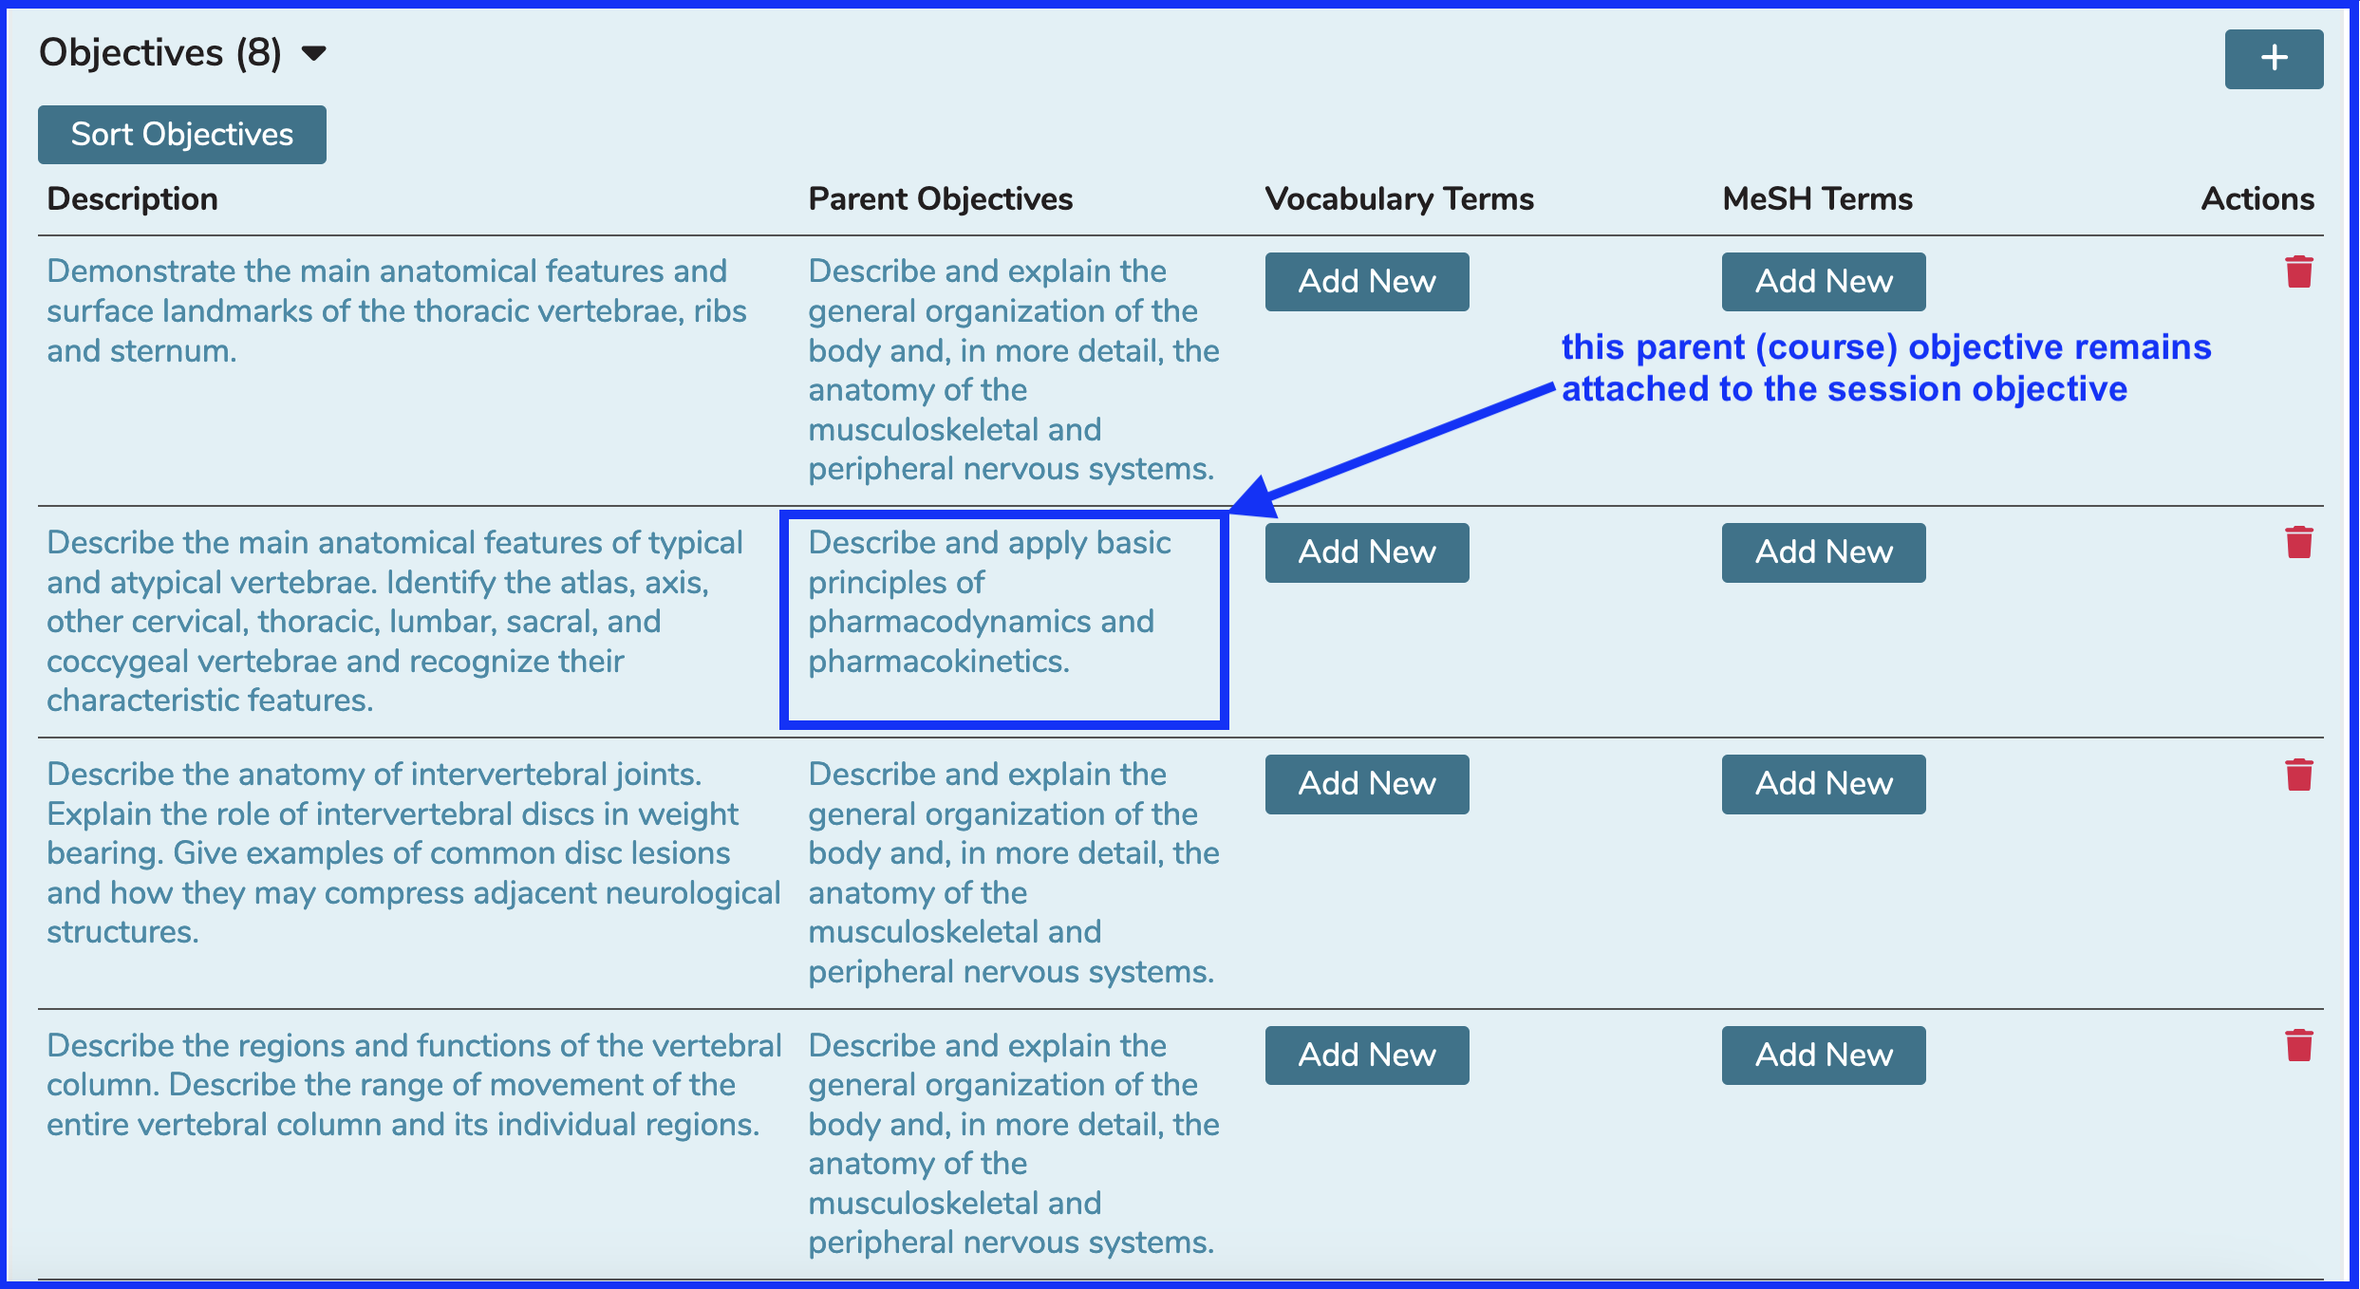
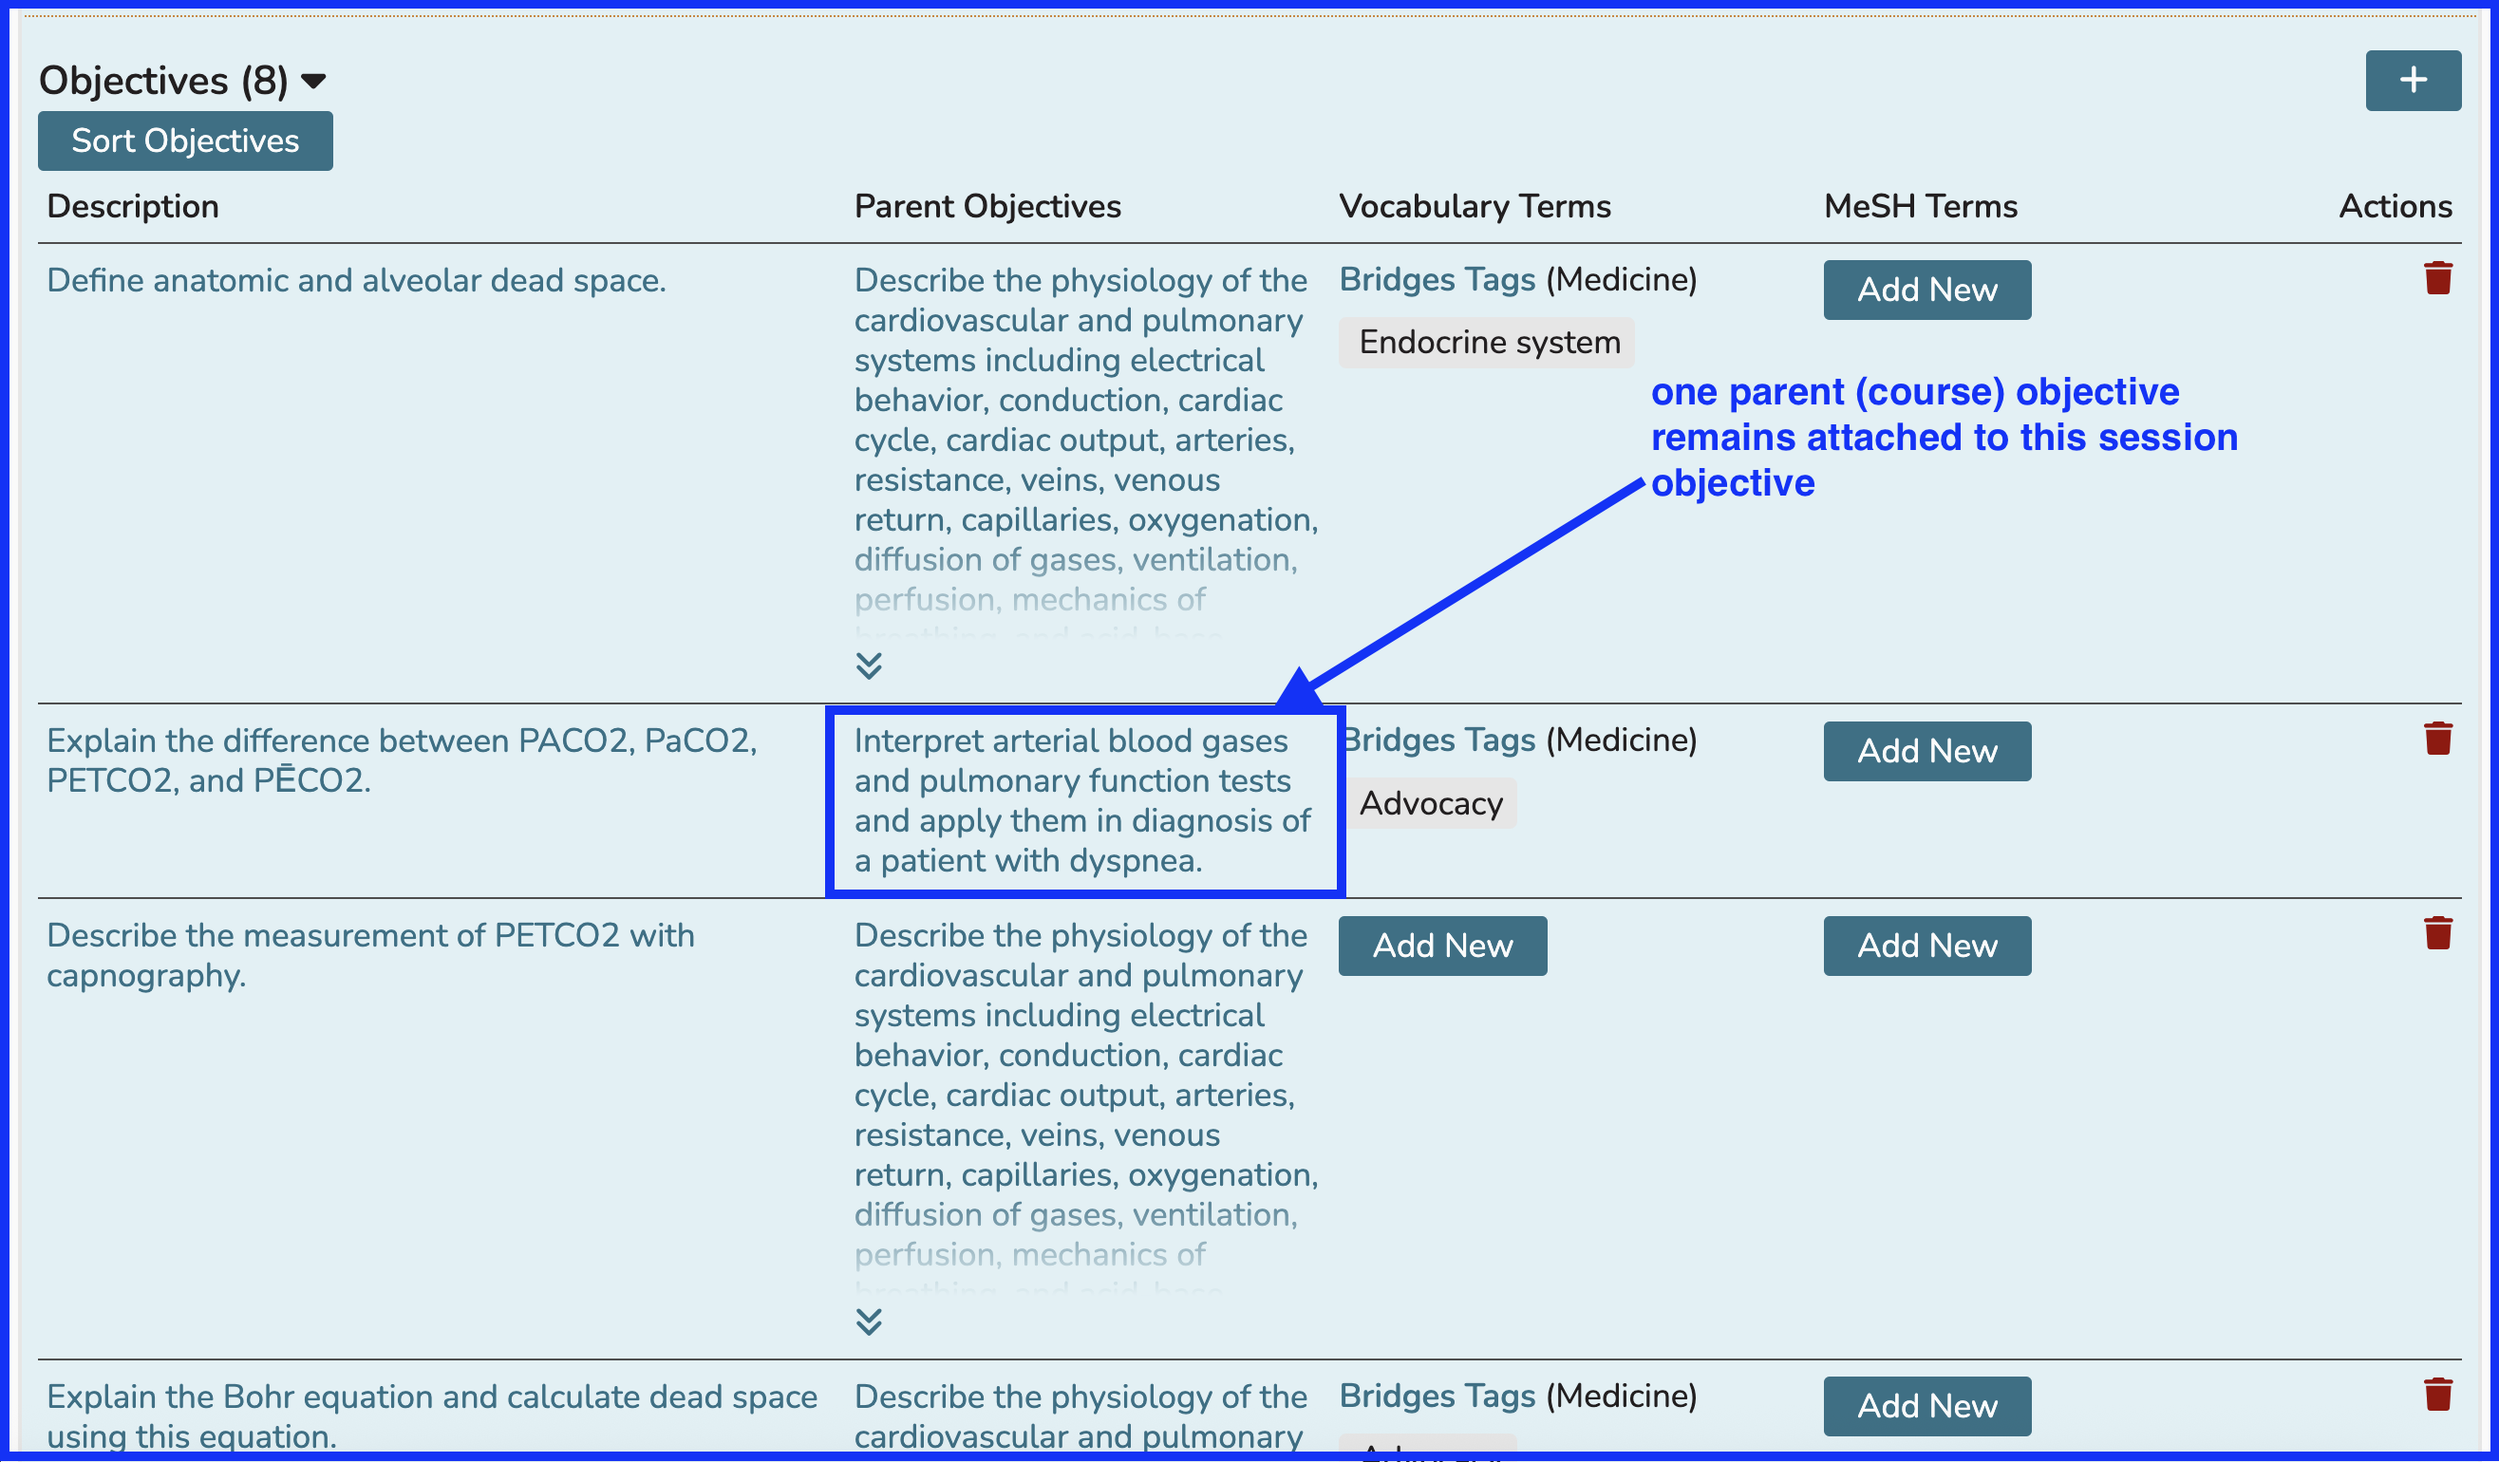
image replaced - slight text update too

Changed region(s): [[0.0, 0.0, 1.0, 1.0], [0.7124, 0.4021, 0.8363, 0.6804], [0.7124, 0.7732, 0.8363, 0.866]]

diff --git a/courses-and-sessions/sessions/edit-parent-objective-s.md b/courses-and-sessions/sessions/edit-parent-objective-s.md
@@ -20,7 +20,7 @@ Now after processing the save, only one parent (course) objective remains attach
 
 ## Verify Removal of Parent
 
-Review the results of this entire process by verifying the removal of one of the parent (course) objectives from being assoicated with the session objective.
+Review the results of this entire process by verifying the removal of one of the parent (course) objectives from the session objective.
 
 ![view results](../../images/edit_session_obj_parent/view_results.png)
 
